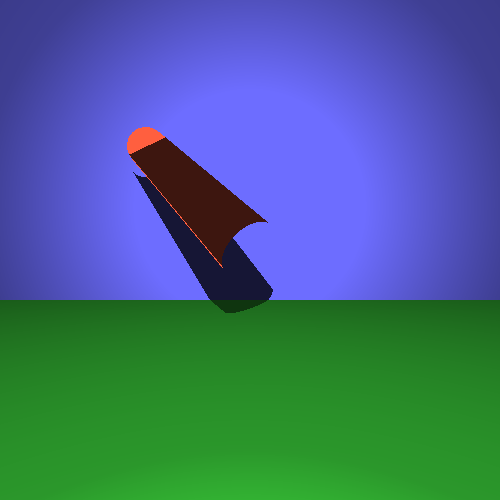
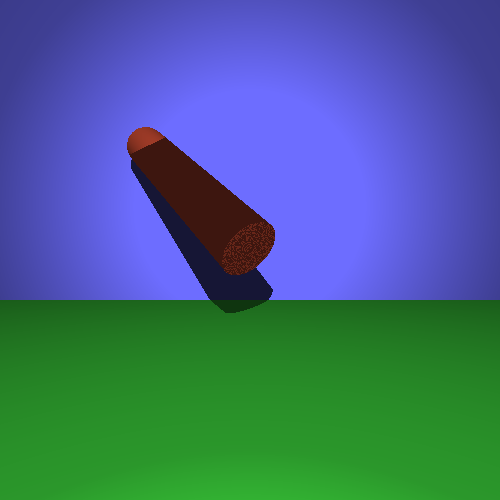
ta melhorando mas ainda fudeu

Changed region(s): [[0.42, 0.42, 0.57, 0.57], [0.24, 0.24, 0.33, 0.36]]

diff --git a/cgpython att/cgpython/Cilindro.py b/cgpython att/cgpython/Cilindro.py
@@ -2,7 +2,8 @@ from asyncio.windows_events import NULL
 import Operacoes
 import numpy as np
 import math
-
+from Plano import Plano
+from Vetor import Vetor
 class Cilindro:
     def __init__(self,CentroBase,RaioBase,Altura,direcao,material, m,tipo):
         self.CentroBase = CentroBase
@@ -12,29 +13,49 @@ class Cilindro:
         self.material = material
         self.m = m
         self.tipo = tipo
+        self.local_intersecao = 0
         return
 
     def Calcular_Normal(self,ponto):
-        w = Operacoes.Subtracao_vetores(ponto,self.CentroBase)
-        aux1 = Operacoes.ProdutoEscalar(w,self.direcao)
-        aux2 = Operacoes.Vetor_escalar(self.direcao,aux1)
-        PP = Operacoes.Soma_vetores(self.CentroBase,aux2)
-        return PP
+        
+        if self.local_intersecao == "base":
+            return Operacoes.Vetor_escalar(self.direcao,-1)
+        
+        if self.local_intersecao == "topo":
+            return self.direcao
+        
+        if self.local_intersecao == "corpo":
+            w = Operacoes.Subtracao_vetores(ponto,self.CentroBase)
+            aux1 = Operacoes.ProdutoVetorial(w,self.direcao)
+            aux2 = Operacoes.ProdutoVetorial(self.direcao,aux1)
+            return Operacoes.NormalizaVetor(aux2)
 
     def IntercecaoRaioCilindro(self, raio1):
         
+        plano_base = Plano(self.CentroBase,Operacoes.Vetor_escalar(self.direcao,-1),Vetor(0,0,0),1,"plano")
+        plano_topo = Plano(Operacoes.Soma_vetores(self.CentroBase,Operacoes.Vetor_escalar(self.direcao,self.Altura)),self.direcao,Vetor(0,0,0),1,"plano")
+        
+        aux1 = plano_base.IntercecaoPlano(raio1)
+        aux2 = plano_topo.IntercecaoPlano(raio1)
+        
+        
+        if aux1 == math.inf or Operacoes.DistanciaEntrePontos(aux1,self.CentroBase) > self.RaioBase:
+            aux1 = math.inf
+        if aux2 == math.inf or Operacoes.DistanciaEntrePontos(aux2,Operacoes.Soma_vetores(self.CentroBase,Operacoes.Vetor_escalar(self.direcao,self.Altura))) > self.RaioBase:
+            aux2 = math.inf
+        
         D = raio1.Direcao
         origem = raio1.Origem
+        
         prod_escalar = Operacoes.ProdutoEscalar(D, self.direcao)
-    
-        mult = Operacoes.Vetor_escalar(self.direcao, prod_escalar )
+        mult = Operacoes.Vetor_escalar(self.direcao, prod_escalar)
     
         w = Operacoes.Subtracao_vetores(D, mult)
 
  
-        v1 = Operacoes.Subtracao_vetores(origem, self.CentroBase )
-        v2 = Operacoes.Vetor_escalar(self.direcao,Operacoes.ProdutoEscalar(v1, self.direcao) ) 
-        v = Operacoes.Subtracao_vetores(v1, v2)
+        v1 = Operacoes.Subtracao_vetores(origem, self.CentroBase)
+        v2 = Operacoes.Vetor_escalar(self.direcao,Operacoes.ProdutoEscalar(v1, self.direcao)) 
+        v = Operacoes.Subtracao_vetores(v1,v2)
     
         a = Operacoes.ProdutoEscalar(w, w)
         b = 2*Operacoes.ProdutoEscalar(v, w)
@@ -43,20 +64,51 @@ class Cilindro:
         delta = (pow(b,2) - (4* a * c))
   
         if(delta < 0):
-            return math.inf
+            pt1 = math.inf
+        else:
+            t1 = (-b + math.sqrt(delta)) / (2*a)
+            t2 = (-b - math.sqrt(delta)) / (2*a)
     
-        t1 = (-b + math.sqrt(delta)) / (2*a)
-        t2 = (-b - math.sqrt(delta)) / (2*a)
-    
-        if(t1 < t2):
-            t2 = t1
+            if(t1 < t2):
+                t2 = t1
 
-        pt1 = Operacoes.EquacaoReta(t2,raio1)
-        w = Operacoes.Subtracao_vetores(pt1,self.CentroBase)
-        aux3 = Operacoes.ProdutoEscalar(w,self.direcao)
+            pt1 = Operacoes.EquacaoReta(t2,raio1)
+
+            w = Operacoes.Subtracao_vetores(pt1,self.CentroBase)
+            aux3 = Operacoes.ProdutoEscalar(w,self.direcao)
         
-        if aux3 > self.Altura or aux3 < 0:
-            return math.inf
+            if aux3 > self.Altura or aux3 < 0:
+                pt1 = math.inf
+        
+        
+        if aux1 == math.inf:
+            dist_aux1 = math.inf
+        else:
+            dist_aux1 = Operacoes.DistanciaEntrePontos(aux1,origem)
+            
+            
+        if aux2 == math.inf:
+            dist_aux2 = math.inf 
+        else:
+            dist_aux2 = Operacoes.DistanciaEntrePontos(aux2,origem)
+            
+            
+        if pt1 == math.inf:
+            dist_pt1 = math.inf
+        else:
+            dist_pt1 = Operacoes.DistanciaEntrePontos(pt1,origem)
+        
+        
+        self.local_intersecao = "corpo"
+        
+        if dist_aux1 < dist_aux2 and dist_aux1 < dist_pt1:
+            pt1 = aux1
+            self.local_intersecao = "base"
+            
+        if dist_aux2 < dist_aux1 and dist_aux2 < dist_pt1:
+            pt1 = aux2
+            self.local_intersecao = "topo"
+
         return  pt1
     
     

diff --git a/cgpython att/cgpython/Cone.py b/cgpython att/cgpython/Cone.py
@@ -1,5 +1,7 @@
 import Operacoes
 import math
+from Plano import Plano
+from Vetor import Vetor
 class Cone:
     def __init__(self,CentroBase,RaioBase,Altura,direcao,material,m,tipo):
         h_dc = Operacoes.Vetor_escalar(direcao,Altura )
@@ -11,17 +13,28 @@ class Cone:
         self.material = material
         self.m = m
         self.tipo = tipo
+        self.local_intersecao = 0
         return
 
 
     def Calcular_Normal(self,ponto):
-        w2 = Operacoes.Subtracao_vetores(self.v,ponto)
-        Nt = Operacoes.ProdutoVetorial(w2,self.direcao)
-        N = Operacoes.ProdutoVetorial(w2,Nt)
-        normal = Operacoes.NormalizaVetor(N)
-        return normal
+        if self.local_intersecao == "base":
+            return Operacoes.Vetor_escalar(self.direcao,-1)
+        else:
+            w2 = Operacoes.Subtracao_vetores(self.v,ponto)
+            Nt = Operacoes.ProdutoVetorial(w2,self.direcao)
+            N = Operacoes.ProdutoVetorial(w2,Nt)
+            normal = Operacoes.NormalizaVetor(N)
+            return normal
 
     def IntercecaoRaioCone(self, raio):
+        
+        plano_base = Plano(self.CentroBase,Operacoes.Vetor_escalar(self.direcao,-1),Vetor(0,0,0),1,"plano")
+        aux1 = plano_base.IntercecaoPlano(raio)
+        
+        if aux1 == math.inf or Operacoes.DistanciaEntrePontos(aux1,self.CentroBase) > self.RaioBase:
+            aux1 = math.inf
+        
         observer = raio.Origem
         D = raio.Direcao
 
@@ -41,30 +54,41 @@ class Cone:
 
         delta = (pow(b,2) - (4* a * c))
 
-        if(a==0):
-            if(b==0):
-                return math.inf
-        if(delta < 0):
-            return math.inf
         
-        t1 = (-b + math.sqrt(delta)) / (2*a)
-        t2 = (-b - math.sqrt(delta)) / (2*a)
-
-        if(t1 > 0 and t2 > 0):
-            if(t1 < t2):
-                t2 = t1
-            pt1 = Operacoes.EquacaoReta(t2,raio)
-
-        if(t1 < 0 and t2 > 0):
-            pt1 = Operacoes.EquacaoReta(t2,raio)
+        if(delta < 0) or (a == 0 and b ==0):
+            pt1 = math.inf
         else:
-            pt1 = Operacoes.EquacaoReta(t1,raio)
+            t1 = (-b + math.sqrt(delta)) / (2*a)
+            t2 = (-b - math.sqrt(delta)) / (2*a)
+
+            if(t1 > 0 and t2 > 0):
+                if(t1 < t2):
+                    t2 = t1
+                pt1 = Operacoes.EquacaoReta(t2,raio)
+
+            if(t1 < 0 and t2 > 0):
+                pt1 = Operacoes.EquacaoReta(t2,raio)
+            else:
+                pt1 = Operacoes.EquacaoReta(t1,raio)
             
-        w2 = Operacoes.Subtracao_vetores(pt1,self.v)
-        aux3 = Operacoes.ProdutoEscalar(w2,self.direcao)
+            w2 = Operacoes.Subtracao_vetores(pt1,self.CentroBase)
+            aux3 = Operacoes.ProdutoEscalar(w2,self.direcao)
         
-        if aux3 > self.Altura or aux3 < 0:
+            if aux3 > self.Altura or aux3 < 0:
             
-            return math.inf   
+                pt1 = math.inf   
+
+        if aux1 == math.inf:
+            dist_aux1 = math.inf
+        else:
+            dist_aux1 = Operacoes.DistanciaEntrePontos(aux1,observer)
+        if pt1 == math.inf:
+            dist_pt1 = math.inf
+        else:
+            dist_pt1 = Operacoes.DistanciaEntrePontos(pt1,observer)
         
+        self.local_intersecao = "corpo"
+        if dist_aux1 < dist_pt1:
+            pt1 = aux1
+            self.local_intersecao = "base"   
         return pt1

diff --git a/cgpython att/cgpython/Operacoes.py b/cgpython att/cgpython/Operacoes.py
@@ -54,9 +54,12 @@ def DecideCor(list_obj,objeto, Raio1, list_luz, t):
             else:
                 l = NormalizaVetor(Subtracao_vetores(getattr(luz,"posicao"),t))
                 int_luz = Raio(t, NormalizaVetor(Subtracao_vetores(luz.posicao,t)))
+                
             cor = True
+            
             for obj in list_obj:
                 aux2 = intercecao(obj,int_luz)
+                
                 if aux2 != math.inf:
                     if luz.tipo == "direcional":
                         if DistanciaEntrePontos(aux2, t) > 0.0001:
@@ -64,11 +67,14 @@ def DecideCor(list_obj,objeto, Raio1, list_luz, t):
                     else:
                         if DistanciaEntrePontos(aux2, t) < DistanciaEntrePontos(t,luz.posicao) and DistanciaEntrePontos(aux2, t) > 0.0001:
                             cor = False
+                            
             luz_dentro = True
             if luz.tipo == "spot":
                 cosalfa = -(ProdutoEscalar(l,luz.direcao))
                 if cosalfa < math.cos(luz.abertura):
                     luz_dentro = False
+                    
+                    
             if cor != False and luz_dentro == True:
                 Ld = Soma_vetores(Ld,Vetor_escalar(Operacao_Arroba((getattr(luz, "intensidade")),objeto.material),max(ProdutoEscalar(l,n),0)))
                 v = Vetor(- getattr(vetor_direcao,"x"), - getattr(vetor_direcao,"y"),- getattr(vetor_direcao,"z"))
@@ -77,6 +83,7 @@ def DecideCor(list_obj,objeto, Raio1, list_luz, t):
                 Le =  Soma_vetores(Le,Vetor_escalar(Operacao_Arroba((getattr(luz, "intensidade")),objeto.material), (max(ProdutoEscalar(r,v),0))**objeto.m))
                 if luz.tipo == "spot":
                     Le = Vetor_escalar(Le, cosalfa)
+                
                 
         La = Operacao_Arroba(Vetor(0.3,0.3,0.3),objeto.material)
         L = Soma_vetores(Soma_vetores(La,Le),Ld)

diff --git a/cgpython att/cgpython/Cenario.py b/cgpython att/cgpython/Cenario.py
@@ -15,7 +15,7 @@ from Operacoes import NormalizaVetor
 from Operacoes import Subtracao_vetores
 def listar_objetos():
 
-    ##esfera1 = Esfera(40, Vetor(0, 0, -100), Vetor(0.7, 0.2, 0.2),10,"esfera")
+    esfera1 = Esfera(40, Vetor(0, 0, -100), Vetor(0.7, 0.2, 0.2),10,"esfera")
     
     planoChao = Plano(Vetor(0,-40,0),Vetor(0,1,0), Vetor(0.2, 0.7, 0.2),1,"plano")
     
@@ -23,7 +23,7 @@ def listar_objetos():
     
     cilindro1 = Cilindro(Vetor(0,0,-100), 13, 120, Vetor(-1/sqrt(3), 1/sqrt(3), -1/sqrt(3)),Vetor( 0.8, 0.3, 0.2),10,"cilindro")
     
-    ##cone1 = Cone(Vetor(0, 60, -100),60,20,Vetor(-1/sqrt(3), 1/sqrt(3), -1/sqrt(3)),Vetor( 0.8, 0.3, 0.2),10,"cone")
+    #cone1 = Cone(Vetor(0, 0, -100),60,20,Vetor(1, 1, 0),Vetor( 0.8, 0.3, 0.2),10,"cone")
     
     ponto1 = Ponto(-50,0,-100)
     ponto2 = Ponto(50,0,-100)
@@ -64,12 +64,12 @@ def listar_objetos():
     #cubo1 = Malha(lista_face,Vetor(1, 0.078, 0.576),10,"malha")
     
     lista_obj = []
-    ##lista_obj.append(esfera1)
+    #lista_obj.append(esfera1)
     lista_obj.append(planoParede)
     lista_obj.append(planoChao)
     #lista_obj.append(cubo1)
     lista_obj.append(cilindro1)
-    ##lista_obj.append(cone1)
+    #lista_obj.append(cone1)
 
     return lista_obj
 

diff --git a/cgpython att/cgpython/Plano.py b/cgpython att/cgpython/Plano.py
@@ -11,14 +11,15 @@ class Plano:
         return
     
     def IntercecaoPlano(self,raio):
-         w = Operacoes.Subtracao_vetores(raio.Origem, self.p_pi )
+        
+         w = Operacoes.Subtracao_vetores(self.p_pi,raio.Origem)
    
-         numerador   = Operacoes.ProdutoEscalar(w, self.p_pi)
-         denominador = Operacoes.ProdutoEscalar(raio.Direcao, self.p_pi)
+         numerador   = Operacoes.ProdutoEscalar(w, self.n_bar)
+         denominador = Operacoes.ProdutoEscalar(raio.Direcao, self.n_bar)
     
          if(denominador == 0 ):
              return math.inf
-         t_i = -numerador/denominador
+         t_i = numerador/denominador
          if(t_i < 0):
              pt1 = math.inf
          else:
